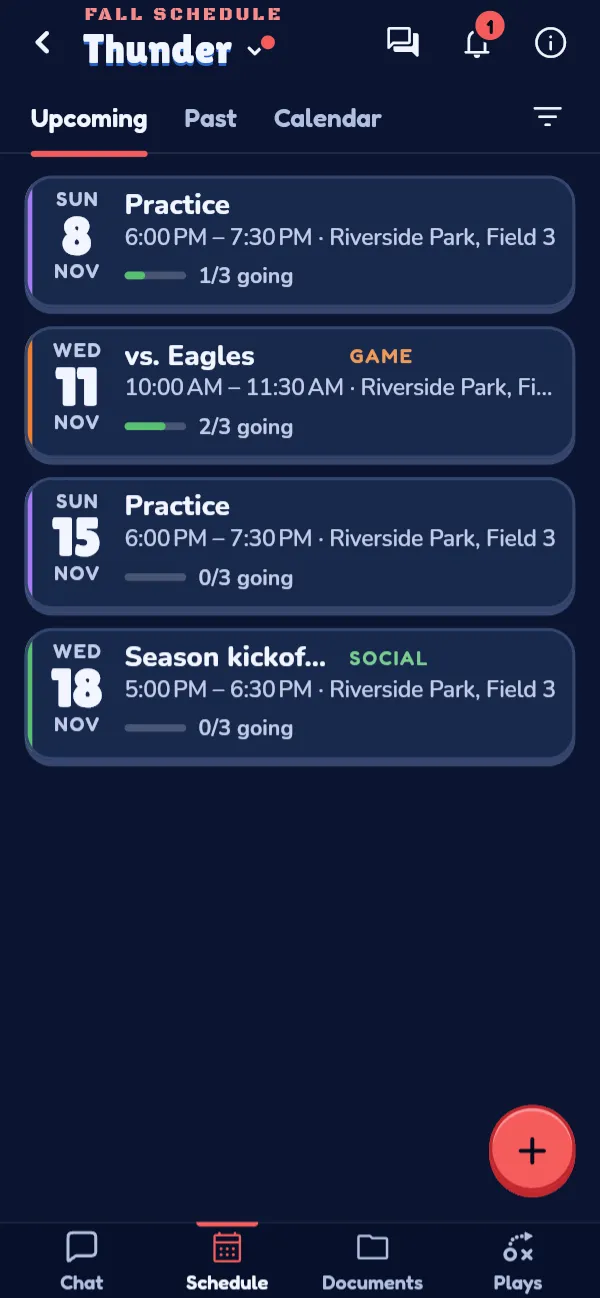
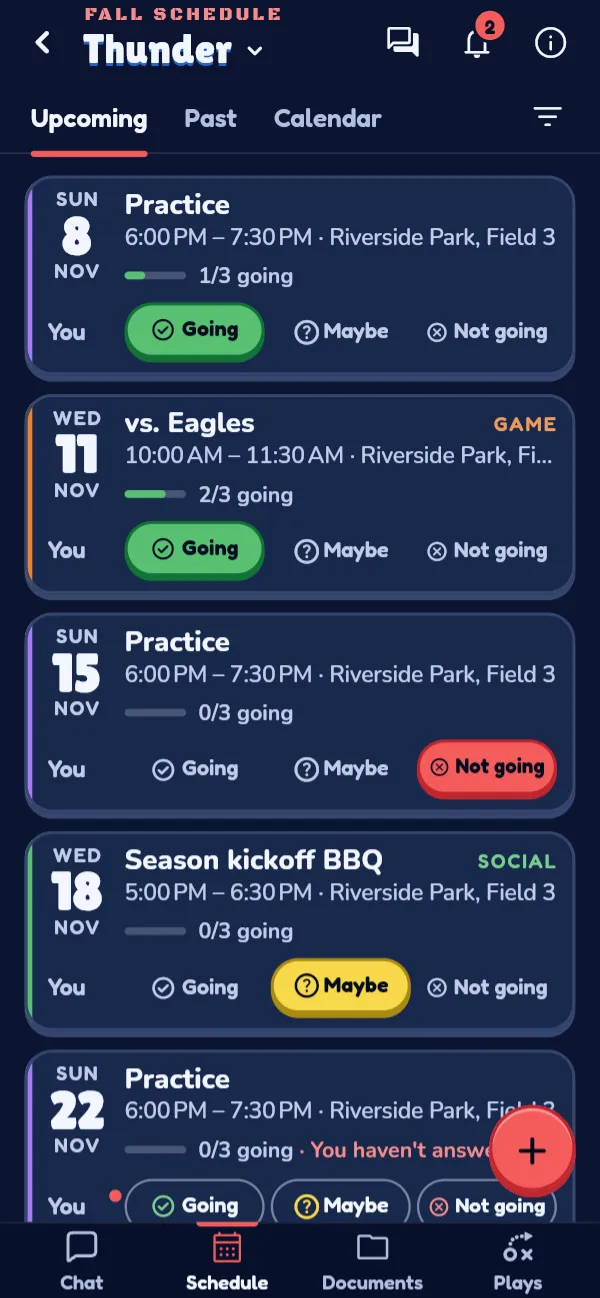
Schedule cards stop cutting titles short; the site's schedule shots show a player's answers
On a schedule card the title and its type word split the row in half,
so titles like "Season kickoff BBQ" were cut short with room to spare.
The type word now takes its own width at the right end (at most half
the row, so big text shortens it instead of overflowing), as the
Open Field spec draws it.

The website's five hero schedule shots are retaken as Jim, a player,
so the cards show Going, Maybe, Not going, and one still to answer.
The seed gives Jim those answers and Thunder two more events.

diff --git a/lib/features/schedule/presentation/event_row.dart b/lib/features/schedule/presentation/event_row.dart
@@ -158,55 +158,64 @@ class EventRow extends StatelessWidget {
                         ),
                       ConstrainedBox(
                         constraints: const BoxConstraints(minHeight: 22),
-                        child: Row(
-                          children: [
-                            Expanded(
-                              child: Text(
-                                event.title,
-                                maxLines: 1,
-                                style: TextStyle(
-                                  fontFamily: AppFonts.body,
-                                  fontWeight: FontWeight.w800,
-                                  fontSize: 18,
-                                  height: 22 / 18,
-                                  color: card.textPrimary,
-                                  decoration: canceled
-                                      ? TextDecoration.lineThrough
-                                      : null,
+                        child: LayoutBuilder(
+                          builder: (context, box) => Row(
+                            children: [
+                              Expanded(
+                                child: Text(
+                                  event.title,
+                                  maxLines: 1,
+                                  style: TextStyle(
+                                    fontFamily: AppFonts.body,
+                                    fontWeight: FontWeight.w800,
+                                    fontSize: 18,
+                                    height: 22 / 18,
+                                    color: card.textPrimary,
+                                    decoration: canceled
+                                        ? TextDecoration.lineThrough
+                                        : null,
+                                  ),
+                                  overflow: TextOverflow.ellipsis,
                                 ),
-                                overflow: TextOverflow.ellipsis,
                               ),
-                            ),
-                            if (canceled) ...[
-                              const SizedBox(width: 10),
-                              const CanceledBadge(),
-                            ],
-                            // The type word, unless the title says it.
-                            if (!canceled &&
-                                event.title.trim().toLowerCase() !=
-                                    type.toLowerCase()) ...[
-                              const SizedBox(width: 10),
-                              Flexible(
-                                child: ExcludeSemantics(
-                                  child: Text(
-                                    type.toUpperCase(),
-                                    maxLines: 1,
-                                    softWrap: false,
-                                    overflow: TextOverflow.ellipsis,
-                                    style: style.label(
-                                      TextStyle(
-                                        fontWeight: FontWeight.w600,
-                                        fontSize: 13,
-                                        height: 16 / 13,
-                                        letterSpacing: 13 * 0.1,
-                                        color: typeText,
+                              if (canceled) ...[
+                                const SizedBox(width: 10),
+                                const CanceledBadge(),
+                              ],
+                              // The type word, unless the title says it, at
+                              // its own width and pushed right, so the title
+                              // has the rest of the row before it's cut
+                              // short. Never over half the row, so big text
+                              // shortens it rather than overflowing.
+                              if (!canceled &&
+                                  event.title.trim().toLowerCase() !=
+                                      type.toLowerCase()) ...[
+                                const SizedBox(width: 10),
+                                ConstrainedBox(
+                                  constraints: BoxConstraints(
+                                    maxWidth: box.maxWidth / 2,
+                                  ),
+                                  child: ExcludeSemantics(
+                                    child: Text(
+                                      type.toUpperCase(),
+                                      maxLines: 1,
+                                      softWrap: false,
+                                      overflow: TextOverflow.ellipsis,
+                                      style: style.label(
+                                        TextStyle(
+                                          fontWeight: FontWeight.w600,
+                                          fontSize: 13,
+                                          height: 16 / 13,
+                                          letterSpacing: 13 * 0.1,
+                                          color: typeText,
+                                        ),
                                       ),
                                     ),
                                   ),
                                 ),
-                              ),
+                              ],
                             ],
-                          ],
+                          ),
                         ),
                       ),
                       const SizedBox(height: 1),

diff --git a/website/index.html b/website/index.html
@@ -188,11 +188,11 @@
           <input class="scheme-input" type="radio" name="scheme" id="s-navy" value="navy">
           <input class="scheme-input" type="radio" name="scheme" id="s-skyblue" value="skyblue">
           <div class="stage">
-            <div class="phone p-army"><img src="/images/schedule-army.webp" width="600" height="1298" fetchpriority="high" alt="Thunder's fall schedule in Battleplan's Army green color scheme: two practices, a game against the Eagles, and the season kickoff, each a card with its date, time, place, and how many players are going."></div>
-            <div class="phone p-light"><img src="/images/schedule-light.webp" width="600" height="1298" decoding="async" alt="The same schedule in the Light color scheme."></div>
-            <div class="phone p-dark"><img src="/images/schedule-dark.webp" width="600" height="1298" decoding="async" alt="The same schedule in the Dark color scheme."></div>
-            <div class="phone p-navy"><img src="/images/schedule-navy.webp" width="600" height="1298" decoding="async" alt="The same schedule in the Navy color scheme."></div>
-            <div class="phone p-skyblue"><img src="/images/schedule-skyblue.webp" width="600" height="1298" decoding="async" alt="The same schedule in the Light blue color scheme."></div>
+            <div class="phone p-army"><img src="/images/schedule-army.webp" width="600" height="1298" fetchpriority="high" alt="Thunder's fall schedule in Battleplan's Army green color scheme, as one of its players sees it. Each card has its date, time, place, how many players are going, and the player's own answer: Going to the first practice and the game against the Eagles, Not going to the second practice, Maybe for the season kickoff BBQ, and no answer yet for the third practice."></div>
+            <div class="phone p-light"><img src="/images/schedule-light.webp" width="600" height="1298" decoding="async" alt="The same schedule and answers in the Light color scheme."></div>
+            <div class="phone p-dark"><img src="/images/schedule-dark.webp" width="600" height="1298" decoding="async" alt="The same schedule and answers in the Dark color scheme."></div>
+            <div class="phone p-navy"><img src="/images/schedule-navy.webp" width="600" height="1298" decoding="async" alt="The same schedule and answers in the Navy color scheme."></div>
+            <div class="phone p-skyblue"><img src="/images/schedule-skyblue.webp" width="600" height="1298" decoding="async" alt="The same schedule and answers in the Light blue color scheme."></div>
           </div>
           <div class="swatches">
             <label for="s-army"><span class="dot" aria-hidden="true"></span>Army green</label>

diff --git a/tools/seed/seed.ts b/tools/seed/seed.ts
@@ -277,12 +277,16 @@ async function main() {
   // Upcoming events with a few RSVPs: per player on every team, and
   // members answering for themselves (coaches and others, SCHED-5). A few
   // past ones fill in each player's RSVP history (PLAYER-11). Thunder's
-  // game has its card in the chat (CHAT-11).
+  // game has its card in the chat (CHAT-11). Jim's answers on Thunder's
+  // are Going, Maybe, and Not going, with one practice still open, so his
+  // schedule shows each (the website's hero screenshots).
   const events: { id: string; groupId: string; type: string; title: string; day: number; hour: number; opponent?: string; homeAway?: string; card?: true }[] = [
     { id: 'thunder-practice', groupId: 'thunder', type: 'practice', title: 'Practice', day: 2, hour: 18 },
     { id: 'thunder-game', groupId: 'thunder', type: 'game', title: 'vs. Eagles', day: 5, hour: 10, opponent: 'Eagles', homeAway: 'home', card: true },
     { id: 'thunder-practice-2', groupId: 'thunder', type: 'practice', title: 'Practice', day: 9, hour: 18 },
     { id: 'thunder-bbq', groupId: 'thunder', type: 'social', title: 'Season kickoff BBQ', day: 12, hour: 17 },
+    { id: 'thunder-practice-3', groupId: 'thunder', type: 'practice', title: 'Practice', day: 16, hour: 18 },
+    { id: 'thunder-game-2', groupId: 'thunder', type: 'game', title: '@ Wildcats', day: 19, hour: 10, opponent: 'Wildcats', homeAway: 'away' },
     { id: 'cyclone-practice', groupId: 'cyclone', type: 'practice', title: 'Practice', day: 1, hour: 17 },
     { id: 'cyclone-game', groupId: 'cyclone', type: 'game', title: 'vs. Comets', day: 4, hour: 9, opponent: 'Comets', homeAway: 'home' },
     { id: 'possums-game', groupId: 'possums', type: 'game', title: '@ Bulls', day: 3, hour: 19, opponent: 'Bulls', homeAway: 'away' },
@@ -326,6 +330,9 @@ async function main() {
     ['thunder-game', 'player', 'jim-halpert', 'going', 'jim'],
     ['thunder-game', 'player', 'andy-dwyer', 'going', 'andy'],
     ['thunder-game', 'player', 'pam-beesly', 'maybe', 'coach'],
+    ['thunder-practice-2', 'player', 'jim-halpert', 'not_going', 'jim'],
+    ['thunder-bbq', 'player', 'jim-halpert', 'maybe', 'jim'],
+    ['thunder-game-2', 'player', 'jim-halpert', 'going', 'jim'],
     ['cyclone-practice', 'player', 'luke-dunphy', 'going', 'phil'],
     ['cyclone-practice', 'player', 'emma-green', 'not_going', 'rachel'],
     ['possums-game', 'player', 'haley-dunphy', 'going', 'claire'],

diff --git a/test/schedule_test.dart b/test/schedule_test.dart
@@ -237,6 +237,27 @@ void main() {
       expect(find.text('No response'), findsNothing);
     });
 
+    testWidgets('a long title has the row up to the type word, which sits at '
+        'the right end', (tester) async {
+      await openSchedule(
+        tester,
+        events: [
+          event('s', title: 'Season kickoff BBQ', type: EventType.social),
+        ],
+      );
+      final title = tester.getRect(find.text('Season kickoff BBQ'));
+      final word = tester.getRect(find.text('SOCIAL'));
+      final row = tester.getRect(
+        find
+            .ancestor(of: find.text('SOCIAL'), matching: find.byType(Row))
+            .first,
+      );
+      // Pushed right, 10 after the title, which has the rest of the row
+      // (the two used to split it in half, cutting titles short).
+      expect(word.right, moreOrLessEquals(row.right, epsilon: 0.5));
+      expect(word.left, moreOrLessEquals(title.right + 10, epsilon: 0.5));
+    });
+
     testWidgets('the type filter (SCHED-2)', (tester) async {
       await openSchedule(
         tester,

diff --git a/website/README.md b/website/README.md
@@ -72,7 +72,7 @@ The screenshots show the app with the seeded sample teams (Thunder, Cyclone, and
 
 | Image | Scheme | Signed in as | Screen |
 |---|---|---|---|
-| `schedule-army`, `-light`, `-dark`, `-navy`, `-skyblue` (hero) | all five | `coach@example.com` | Thunder's schedule: the same screen in each scheme |
+| `schedule-army`, `-light`, `-dark`, `-navy`, `-skyblue` (hero) | all five | `jim@example.com` | Thunder's schedule as a player: their own Going, Maybe, and Not going on the cards and a practice still to answer, the same screen in each scheme |
 | `chat-navy` | Navy | `coach@example.com` | Thunder's chat, opened at the first unread message |
 | `event-skyblue` | Light blue | `coach@example.com` | Thunder's game against the Eagles, with the RSVPs |
 | `poll-dark` | Dark | `rachel@example.com` | Rally Possums' tournament poll |
@@ -86,6 +86,7 @@ The screenshots show the app with the seeded sample teams (Thunder, Cyclone, and
 The current set (Open Field, all five schemes, 2026-11-06, the owner's request) are captures of the real web app against the emulators. To retake them: start the emulators fresh (restart rather than clearing over REST), seed them (DEVELOPMENT.md), and build from a scratch copy with `bannerLabel` in `lib/core/env.dart` returning null (never commit that), with `flutter build web -t lib/main_dev.dart --dart-define=USE_EMULATORS=true --no-web-resources-cdn --base-href /app/` (CanvasKit: headless Chrome doesn't paint the wasm build), plus `tools/fetch_fallback_fonts.dart` into its `fonts/fallback/` for the emoji. Seed and browse in one time zone where it's currently daytime (seed with `TZ=` set and the seed's `America/Chicago` swapped to match in a scratch copy, and `page.emulateTimezone` in Chrome), so message times look normal and cards skip the "your time" line. Serve the build under `/app/` and drive headless Chrome at 390 × 844 with a device scale of 600 / 390: hide `.firebase-emulator-warning`, sign in with the keyboard alone (Tab to Email and to Password, typing in each, then Sign in through the semantics tree: Flutter keeps a mouse's hover where it last clicked, which lights up whatever later sits there), open each screen by its route (`history.pushState` and a `popstate` event, since a reload signs out), and press buttons through the semantics tree (clicking a `flt-semantics[role=button]` element), since synthetic mouse clicks don't reach some of them.
 
 - **Schemes:** after signing in, PATCH `users/<uid>` with `colorScheme` (`army`, `light`, `dark`, `navy`, or `skyblue`) through the emulator's REST API (`Authorization: Bearer owner`, `updateMask.fieldPaths=colorScheme`). The app recolors live, so the five `schedule-*` shots come from one sign-in. Per-team picks (`groupMembers/<groupId>_<uid>.colorScheme`) aren't seeded, so the default applies everywhere.
+- **Schedule:** Jim's account is linked to the player Jim Halpert on Thunder, so every card on that schedule has an answer row; the seed answers Going, Maybe, and Not going and leaves the third practice unanswered. The coach has no player, so the coach's cards only count who's going. Open `/g/thunder/schedule` (Upcoming).
 - **Chat:** coach lands in Thunder's chat at the first unread message, so take `chat-navy` first after seeding.
 - **Dues:** open `/g/<team>/info`, then press **Dues** (going there directly leaves the app bar without its back button). The seed's dues are on Thunder and Cyclone.
 - **All my teams:** press **Filter**, the **All my teams** switch, then **Dismiss**.
